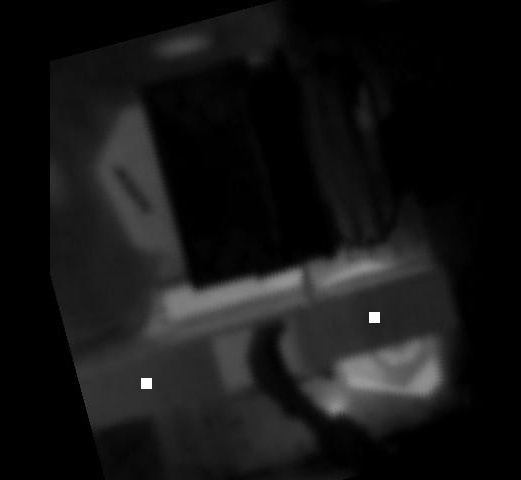
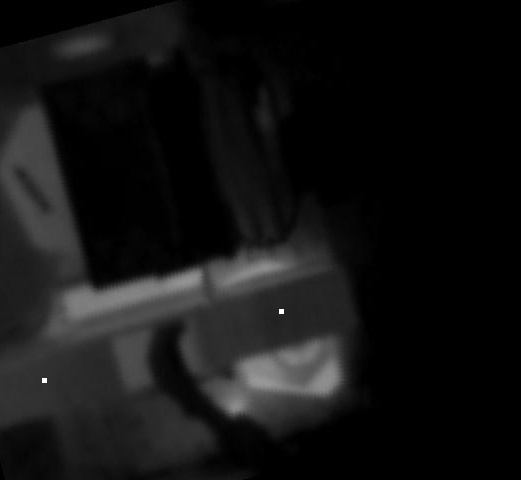
Updated Perturbed Images

diff --git a/main.py b/main.py
@@ -419,22 +419,22 @@ if __name__ == "__main__":
     
 
     ### RE-DOING rotated image
-    # to_rotate = Image.open("./pre-perturbation/WH_Normal_26-52.jpg")
-    # rotated = to_rotate.rotate(10)
-    # rotated.save("./pre-perturbation/WH_Normal_26-52_rotated.jpg")
-    # rotated = cv2.imread(os.path.join("pre-perturbation", "WH_Normal_26-52_rotated.jpg"))
-    # altered_img = pixel_selector(os.path.join("pre-perturbation", "WH_Normal_26-52_rotated.jpg"))
-    # cv2.imwrite(os.path.join("post-perturbation", "WH_Normal_26-52_rotated_altered.jpg"), altered_img)
+    to_rotate = Image.open("./pre-perturbation/WH_Normal_26-52.jpg")
+    rotated = to_rotate.rotate(15)
+    rotated.save("./pre-perturbation/WH_Normal_26-52_rotated.jpg")
+    rotated = cv2.imread(os.path.join("pre-perturbation", "WH_Normal_26-52_rotated.jpg"))
+    altered_img = pixel_selector(os.path.join("pre-perturbation", "WH_Normal_26-52_rotated.jpg"))
+    cv2.imwrite(os.path.join("post-perturbation", "WH_Normal_26-52_rotated_altered.jpg"), altered_img)
 
 
     ### RE-DOING offset and rotated image
-    # rotated = cv2.imread(os.path.join("pre-perturbation", "WH_Normal_26-52_rotated.jpg"))
-    # offset_rotated = np.zeros_like(rotated)
-    # offset_rotated[:,50:] = rotated[:,:-50]
-    # cv2.imwrite(os.path.join("pre-perturbation", "WH_Normal_26-52_rotated_offset.jpg"), offset_rotated)
-    # altered_img = pixel_selector(os.path.join("pre-perturbation", "WH_Normal_26-52_rotated_offset.jpg"))
-    # cv2.imwrite(os.path.join("post-perturbation", "WH_Normal_26-52_rotated_offset_altered.jpg"), altered_img)
-    # show_registration(rotation_folder = "post-perturbation", reference_folder = "reference-images", rotation_filename = "WH_Normal_26-52_rotated_offset_altered.jpg", reference_filename = "WH_Normal_26-52.jpg")
+    rotated = cv2.imread(os.path.join("pre-perturbation", "WH_Normal_26-52_rotated.jpg"))
+    offset_rotated = np.zeros_like(rotated)
+    # offset_rotated[:,50:] = rotated[:,:-50] # offset to the right
+    offset_rotated[:,:-50] = rotated[:,50:] # offset to the left
+    cv2.imwrite(os.path.join("pre-perturbation", "WH_Normal_26-52_rotated_offset.jpg"), offset_rotated)
+    altered_img = pixel_selector(os.path.join("pre-perturbation", "WH_Normal_26-52_rotated_offset.jpg"))
+    cv2.imwrite(os.path.join("post-perturbation", "WH_Normal_26-52_rotated_offset_altered.jpg"), altered_img)
 
 
     # detect_faults(cv2.imread(os.path.join("post-perturbation", "WH_Normal_26-52_altered.jpg")))
@@ -451,7 +451,7 @@ if __name__ == "__main__":
 
     ### Loading in images
     orig_img = cv2.imread(os.path.join("pre-perturbation", "WH_Normal_26-52.jpg"))
-    rotated_img = cv2.imread(os.path.join("post-perturbation", "WH_Normal_26-52_rotated_altered.jpg"))
+    rotated_img = cv2.imread(os.path.join("post-perturbation", "WH_Normal_26-52_rotated_offset_altered.jpg"))
     
     ### Doing canny edge detection
     t_lower = 30
